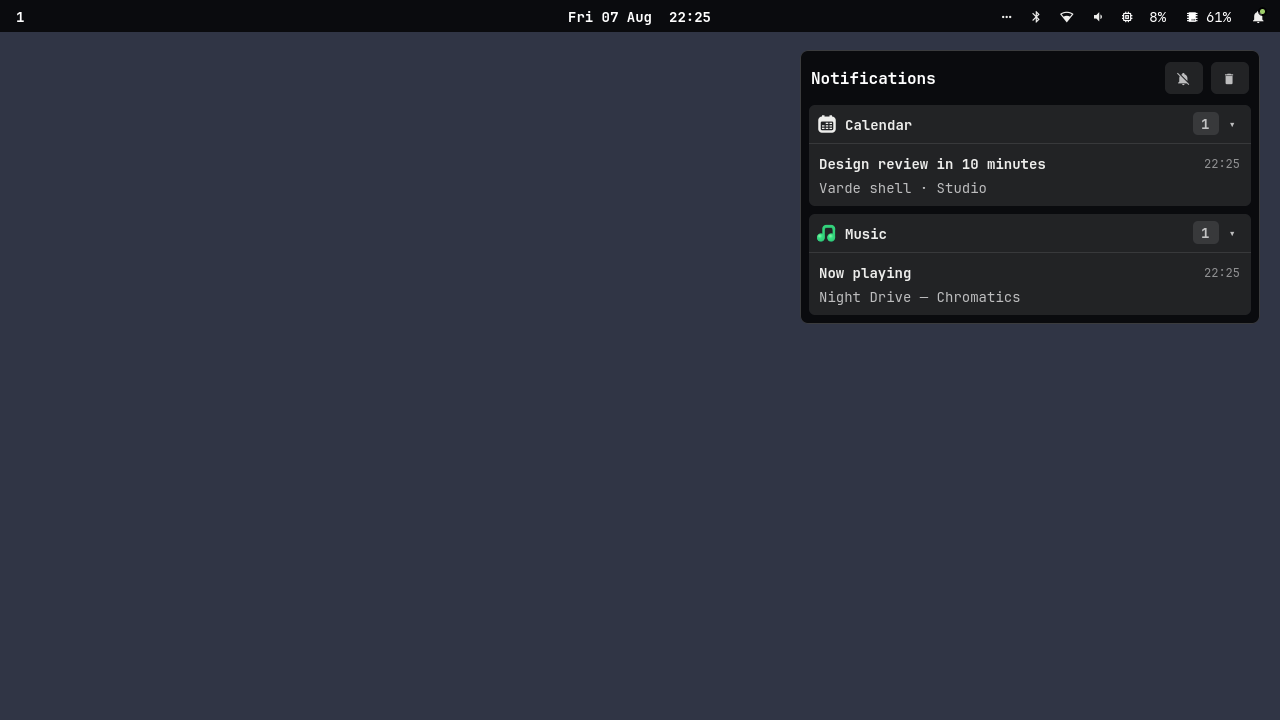
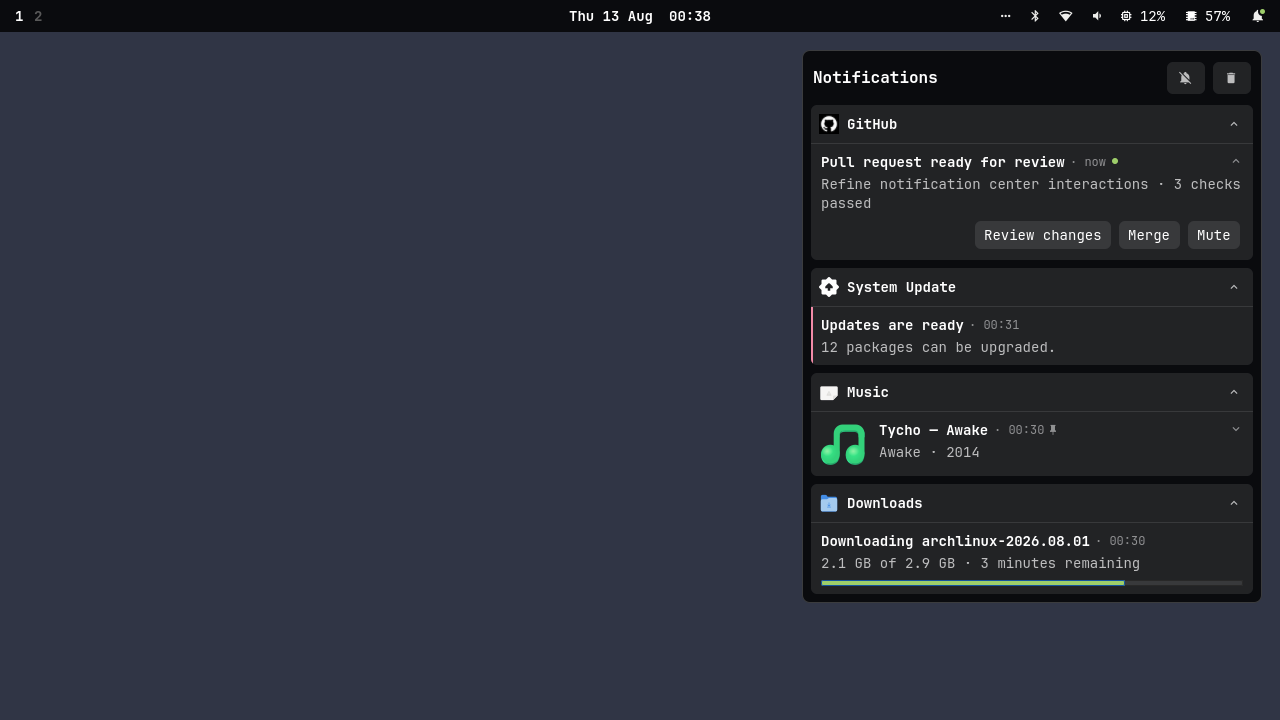
Improve project onboarding

diff --git a/README.md b/README.md
@@ -6,51 +6,99 @@ A small, personal desktop shell for Hyprland, written in Rust with GTK 4.
 
 ![Varde notification center](docs/images/varde-notifications.png)
 
-Varde currently provides a status bar, application and clipboard launchers,
+Varde provides a status bar, application and clipboard launchers,
 notifications, workspace controls, system status, idle inhibition, privacy
-indicators, and a StatusNotifier tray. Its layout and behavior are configured
-directly in the source.
+indicators, and a StatusNotifier tray. It is configured directly in the source.
 
-## Usage
+## Try it
+
+Varde provides a bar and the `org.freedesktop.Notifications` service. Stop any
+conflicting bar or notification daemon, then run it from a Hyprland session:
 
 ```sh
-cargo run -- start
+git clone https://github.com/jochimvd/varde.git
+cd varde
+cargo run --release -- start
 ```
 
-Run `varde --help` to see the command-line interface. Once the shell is
-running, its panels can be toggled directly:
+## Requirements
+
+Build dependencies: a current Rust toolchain, GTK 4.12 or newer, and
+gtk4-layer-shell.
+
+Runtime dependencies: Hyprland, PipeWire, WirePlumber, iwd, BlueZ, iproute2,
+PulseAudio utilities, `uwsm-app`, and JetBrains Mono Nerd Font. Notification
+sounds use `canberra-gtk-play` and `sound-theme-freedesktop`.
+
+Clipboard history requires `cliphist`, `wl-copy`, and a running watcher:
+
+```sh
+wl-paste --watch cliphist store
+```
+
+Optional bar actions use `pavucontrol`, `impala`, `bluetui`, `btop`, and
+`$TERMINAL`.
+
+## Install
+
+```sh
+cargo install --path . --locked
+```
+
+<details>
+<summary>Run Varde as a systemd user service</summary>
+
+Create `~/.config/systemd/user/varde.service`:
+
+```ini
+[Unit]
+Description=Varde desktop shell
+PartOf=graphical-session.target
+After=graphical-session.target
+Requisite=graphical-session.target
+
+[Service]
+Type=exec
+ExecStart=%h/.cargo/bin/varde start
+Restart=on-failure
+Slice=app-graphical.slice
+
+[Install]
+WantedBy=graphical-session.target
+```
+
+```sh
+systemctl --user daemon-reload
+systemctl --user enable --now varde.service
+```
+
+</details>
+
+## Use
 
 ```sh
 varde launcher
 varde clipboard
 varde notifications
+varde notifications clear
 ```
-
-The launcher fuzzy-searches installed applications. It can also search
-clipboard history or act as a dmenu-style selector:
 
 ```sh
 printf "Lock\nSuspend\nReboot\nShutdown" | varde dmenu -p "System..."
 ```
 
-Notifications include floating popups and a persistent notification center.
-Non-critical popups hide after five seconds; critical popups have no automatic
-timeout. Opening the notification center consumes visible popups. Notifications
-remain live in the center until they are actioned, dismissed, or recalled by
-their sender. The application-provided expiration timeout is ignored.
+See `varde --help` for the complete CLI.
 
-## Requirements
+## Customize
 
-Varde targets its author's current Arch Linux system. The setup uses GTK 4,
-gtk4-layer-shell, Hyprland, PipeWire, WirePlumber, iwd, BlueZ, iproute2,
-PulseAudio utilities, libcanberra, `sound-theme-freedesktop`, coreutils,
-`uwsm-app`, `jq`, `grim`, and JetBrains Mono Nerd Font. Clipboard history
-additionally needs `cliphist`, `wl-copy`, and a running
-`wl-paste --watch cliphist store` process.
+The bar layout is in `src/bar/mod.rs`, modules are under `src/bar/modules/`,
+and appearance is defined in `src/style.css`.
 
-Bar actions call `hyprctl`, `wpctl`, `pactl`, `ip`, `iwctl`, `bluetoothctl`,
-`pw-dump`, `dot-menu-audio-switcher`, `pavucontrol`, `impala`, `bluetui`,
-`btop`, and the terminal configured by `$TERMINAL`.
+```sh
+cargo install --path . --locked
+systemctl --user restart varde.service
+```
 
-For the isolated nested-Hyprland development workflow and project checks, see
-[docs/development.md](docs/development.md).
+## Development
+
+See [docs/development.md](docs/development.md).
